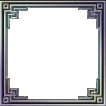
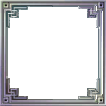
feat: add rarity borders and background, brightness not selected

Changed region(s): [[0.0, 0.0, 1.0, 1.0]]

diff --git a/src/components/characters/CharacterCostumes.tsx b/src/components/characters/CharacterCostumes.tsx
@@ -2,6 +2,7 @@ import { CostumeInfo, typedCharacters } from "@models/character";
 import React, { Dispatch, SetStateAction } from "react";
 import Star from "@components/decorations/Star";
 import CostumeThumbnail from "@components/CostumeThumbnail";
+import classNames from "classnames";
 
 export default function CharacterCostumes({
   currentCostume,
@@ -31,18 +32,21 @@ export default function CharacterCostumes({
         {allCostumes.length} costumes found for {currentCostume.character}
       </p>
 
-      <div className="grid grid-cols-6 gap-2">
+      <div className="flex gap-2">
         {allCostumes.map((costume) => (
           <div
             key={costume.id}
-            className={`inline-flex flex-col justify-center items-center border-beige border-2 p-2 cursor-pointer ${
-              currentCostume.id == costume.id ? "" : "border-opacity-30"
-            }`}
+            className="inline-flex flex-col justify-center items-center p-2 cursor-pointer relative group"
             onClick={() => setCostume(costume)}
           >
             <CostumeThumbnail
               src={costume.thumbnailURL}
               alt={`${costume.name.en} thumbnail`}
+              rarity={costume.stars}
+              imgClasses={classNames(
+                "transition-all filter group-hover:brightness-100",
+                currentCostume.id === costume.id ? "" : "brightness-50"
+              )}
             />
             <span className="text-xs line-clamp-1 mt-1">{costume.name.en}</span>
           </div>

diff --git a/src/components/CostumeThumbnail.tsx b/src/components/CostumeThumbnail.tsx
@@ -1,3 +1,4 @@
+import classNames from "classnames";
 import Image from "next/image";
 import swordIcon from "../../public/weapons_types/1h-sword.png";
 import bigSwordIcon from "../../public/weapons_types/2h-sword.png";
@@ -21,24 +22,28 @@ interface CostumeThumbnailProps {
   src: string;
   alt: string;
   weaponType?: WeaponType;
+  rarity?: number;
+  imgClasses?: string;
 }
 
 export default function CostumeThumbnail({
   src,
   alt,
   weaponType,
+  rarity = 1,
+  imgClasses = "",
 }: CostumeThumbnailProps): JSX.Element {
   return (
     <div
       className="h-20 w-20 relative"
       style={{
-        backgroundImage: `url(/decorations/background_rarity_4.png)`,
+        backgroundImage: `url(/decorations/background_rarity_${rarity}.png)`,
       }}
     >
       <Image
         className="z-10"
         layout="fill"
-        src="/decorations/corners_rarity_4.png"
+        src={`/decorations/corners_rarity_${rarity}.png`}
         alt={alt}
       />
       {weaponType && (
@@ -52,7 +57,12 @@ export default function CostumeThumbnail({
           <Image layout="fill" src={weaponsIcons[weaponType]} alt={alt} />
         </div>
       )}
-      <Image className="z-0" layout="fill" src={src} alt={alt} />
+      <Image
+        className={classNames("z-0", imgClasses)}
+        layout="fill"
+        src={src}
+        alt={alt}
+      />
     </div>
   );
 }
